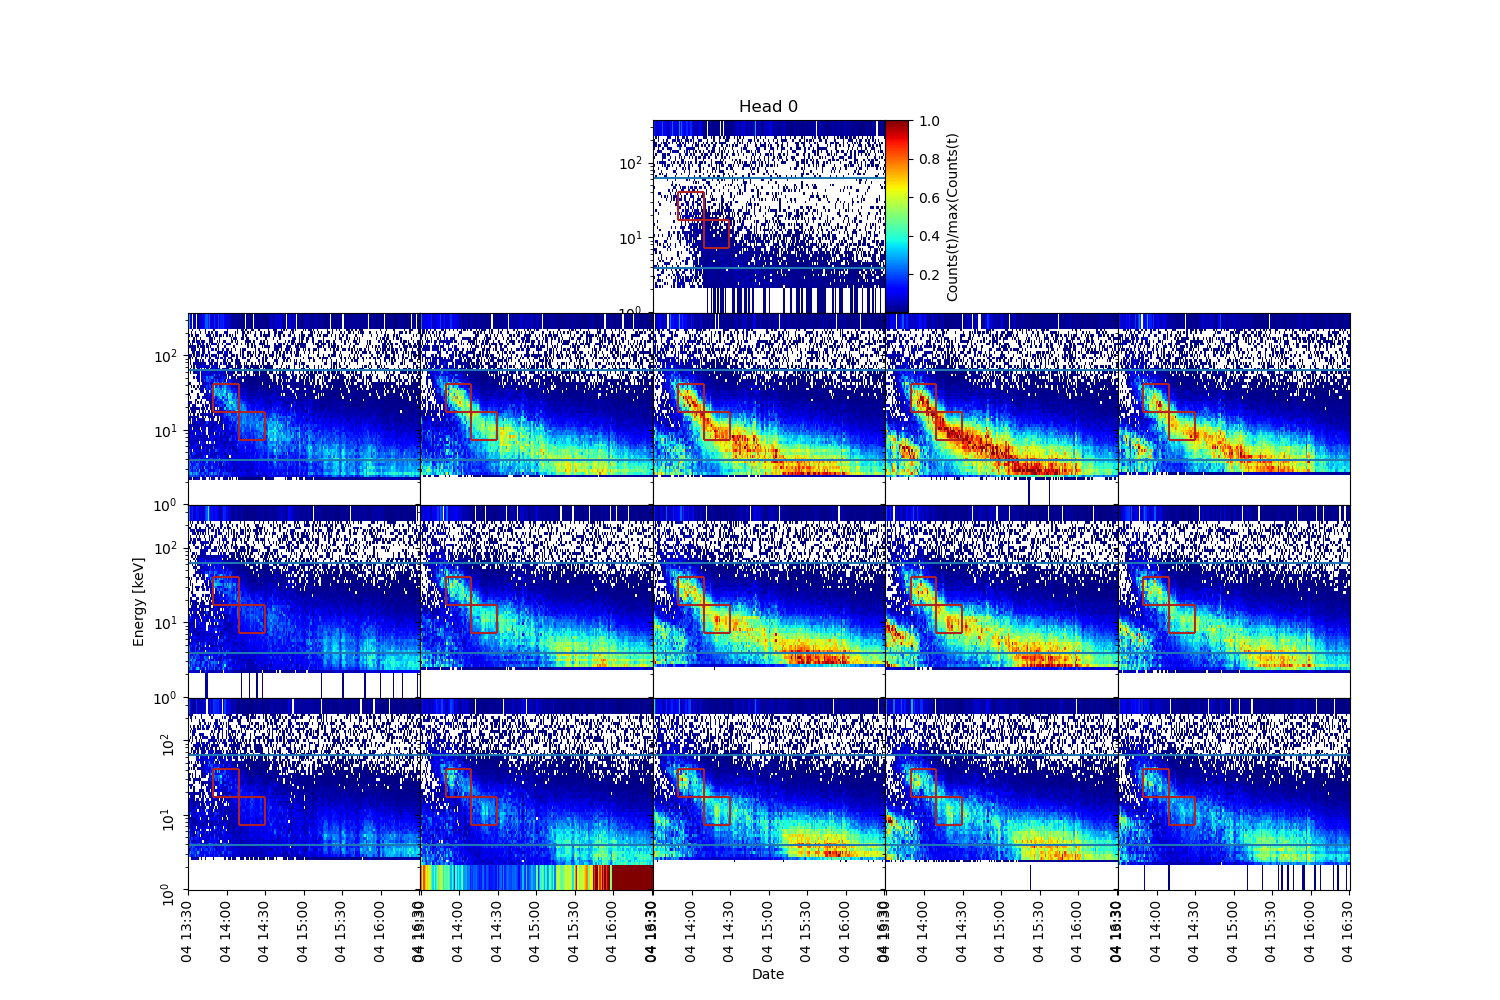
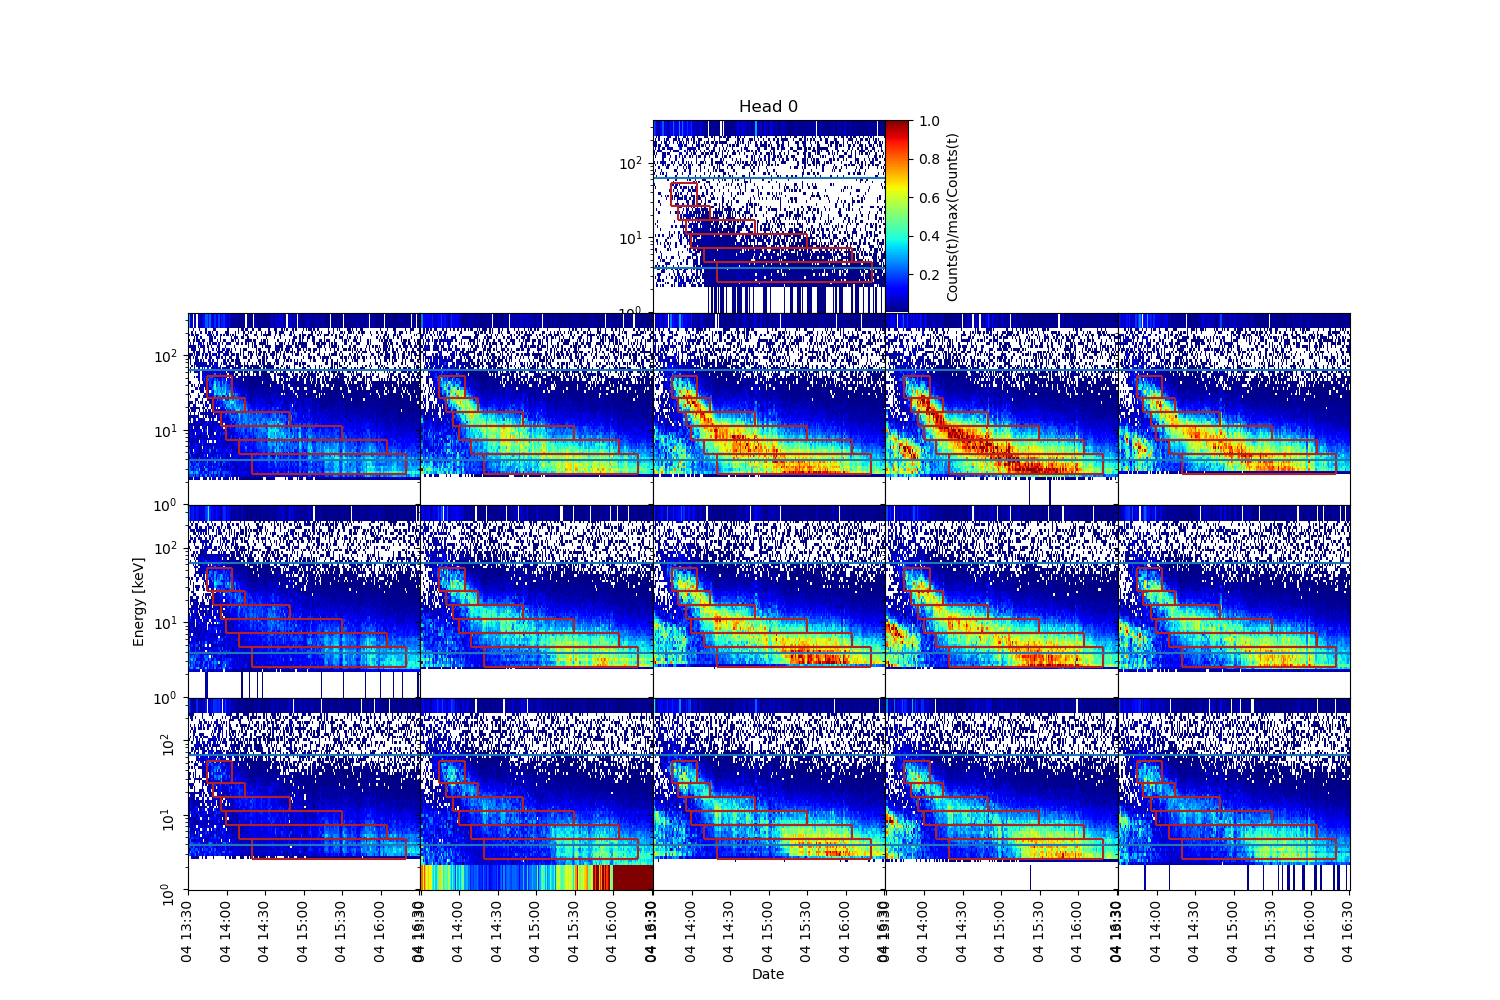
Werkzeuge funktionieren!!!

Changed region(s): [[0.1227, 0.124, 0.92, 0.899]]

diff --git a/analyze_nom_II.py b/analyze_nom_II.py
@@ -379,7 +379,7 @@ class STEP:
                 plt.savefig(filename)
         print('Plotted ' + filename + ' successfully.')
 
-    def evolution_energy_means_new(self, filename, ebins=ebins,res = '1min', head = 0, period = None, window_width = 5, save = False, norm = False, overflow = True, esquare = False, box_list = False):
+    def evolution_energy_means(self, filename, ebins=ebins,res = '1min', head = 0, period = None, window_width = 5, save = False, norm = False, overflow = True, esquare = False, box_list = False):
         '''Übergebe period und Zeitfensterbreite. Intergriere die jeweiligen Energien in den Zeitfenstern und stelle die Entwicklung der means für die einzelnen Pixel da.
         Bei minütlicher Auflösung entspricht window_width von 5 Einträgen fünf Minuten.'''
         i = 0
@@ -422,53 +422,13 @@ class STEP:
             else:
                 plt.savefig(filename)
         print('Plotted ' + filename + ' successfully.')
+
+
+    def evolution_energy_means_ts(self, filename, head, norm, save, period, box_list):
+        '''Kombiniere Plots der Zeitreihe und der Energiemittelwerte für bestimmte Boxen. filename gilt für den Mittelwertsplot.'''
+        self.evolution_energy_means(filename=filename,norm=norm,save=save,period=period,box_list=box_list)
+        self.plot_ts(period=period, head=head, save=save, norm=norm,box_list=box_list)
     
-    def evolution_energy_means(self, filename, ebins=ebins,res = '1min', head = 0, period = None, window_width = 5, save = False, norm = False, overflow = True, esquare = False, box_list = False):
-        '''Übergebe period und Zeitfensterbreite. Intergriere die jeweiligen Energien in den Zeitfenstern und stelle die Entwicklung der means für die einzelnen Pixel da.'''
-        i = 0
-        pixel_means = [[] for i in range(16)]     # Liste mit Listen der Mittelwerte der einzelnen Pixel. Die erste Liste enthält die Zeitstempel (jeweils Mitte der Zeitfenster)
-        
-        while (period[0] + dt.timedelta(minutes=(i+1)*window_width)) <= period[1]:
-            window = [period[0] + dt.timedelta(minutes=i*window_width), period[0] + dt.timedelta(minutes=(i+1)*window_width)]
-
-            if type(box_list) == list:
-                little_helper = self.data_prep(ebins,res,head,window,norm,overflow,esquare)[0]
-                pldat = self.data_boxes(little_helper,box_list)
-            else:
-                pldat = self.data_prep(ebins,res,head,window,norm,overflow,esquare)[0]
-
-            pixel_means[0].append(period[0] + dt.timedelta(minutes=(i+0.5)*window_width))
-            
-            # Berechnung der Mittelwerte:
-            for k in range(1,16):
-                pdat = pldat[k]
-                integral = np.sum(pdat,axis=0)
-                # calculating mean
-                mean = 0.0
-                for j in range(len(integral)):
-                    # Für Bestimmung des Mittelwertes der Verteilung wird Mitte der Bins gewählt
-                    mean += integral[j]*0.5*(ebins[j+1]+ebins[j])
-                mean = mean/np.sum(integral)
-                pixel_means[k].append(mean)
-            i +=1
-        
-        fig, ax = self.step_plot('Time', 'Mean of energy distribution [keV]', 'Evolution of mean of energy distribution for head ' + str(head) + ' from ' + str(period[0]) + ' to ' + str(period[1]) + ' (' + str(window_width) + ' minute steps)')
-        for i in range(1,16):
-            ax[i].plot(pixel_means[0],pixel_means[i])
-            ax[i].set_yscale('log')
-            if i > 10:
-                ax[i].tick_params(axis='x',labelrotation=90)
-            ax[i].axhline(ebins[8],color='firebrick')
-            ax[i].axhline(ebins[40],color='firebrick') #,label='Energy range of STEP')
-            
-        if save:
-            if type(save) == str:
-                plt.savefig(save + filename)
-            else:
-                plt.savefig(filename)
-        print('Plotted ' + filename + ' successfully.')            
-
-
 
     def landau(self,x,A,B,C,D):
         return A/np.sqrt(2*np.pi)*np.exp(-B*0.5*((x+C) + np.exp(-(x+C)))) + D

diff --git a/analyze_data.py b/analyze_data.py
@@ -6,18 +6,20 @@ import datetime as dt
 
 from analyze_nom_II import STEP
 
-# dat = STEP(2021,12,4,rpath='data/')
-dat = STEP(2021,12,4)
+dat = STEP(2021,12,4,rpath='data/')
+# dat = STEP(2021,12,4)
 
-box_list = [[[20,40],[25,35]],[[40,60],[15,25]]]
+box_list = [[[15,35],[30,38]],[[20,45],[25,30]],[[26,80],[20,25]],[[30,120],[15,20]],[[40,155],[10,15]],[[50,170],[3,10]]]
 
 # dat.marginal_distribution(pixel=4,norm='tmax',save='analyze/')
 # dat.marginal_distribution(pixel=4,norm='tmax',save='analyze/',period=[dt.datetime(2021,12,4,13,30),dt.datetime(2021,12,4,16,30)],fit=True)
 # dat.fit_energy(pixel=4,norm='tmax',save='analyze/',period=[dt.datetime(2021,12,4,13,30),dt.datetime(2021,12,4,16,30)],fit=True,p0=[17500,1,-10,0])
 
 # dat.pixel_integral_window(filename='test.png',norm='tmax',save='etracks/',period=[dt.datetime(2021,12,4,14,30),dt.datetime(2021,12,4,14,35)])
-dat.evolution_energy_means_new(filename='test_evolution.png',norm='tmax',save='etracks/',period=[dt.datetime(2021,12,4,13,30),dt.datetime(2021,12,4,16,30)],box_list=box_list)
-dat.plot_ts(period=[dt.datetime(2021,12,4,13,30),dt.datetime(2021,12,4,16,30)], head=0, save='etracks/', norm='tmax',box_list=box_list)
+# dat.evolution_energy_means(filename='test_evolution.png',norm='tmax',save='etracks/',period=[dt.datetime(2021,12,4,13,30),dt.datetime(2021,12,4,16,30)],box_list=box_list)
+# dat.plot_ts(period=[dt.datetime(2021,12,4,13,30),dt.datetime(2021,12,4,16,30)], head=0, save='etracks/', norm='tmax',box_list=box_list)
+
+dat.evolution_energy_means_ts(filename='test_evolution.png',head=0,norm='tmax',save='etracks/',period=[dt.datetime(2021,12,4,13,30),dt.datetime(2021,12,4,16,30)],box_list=box_list)
 
 
 # dat = STEP(2021,12,5)
